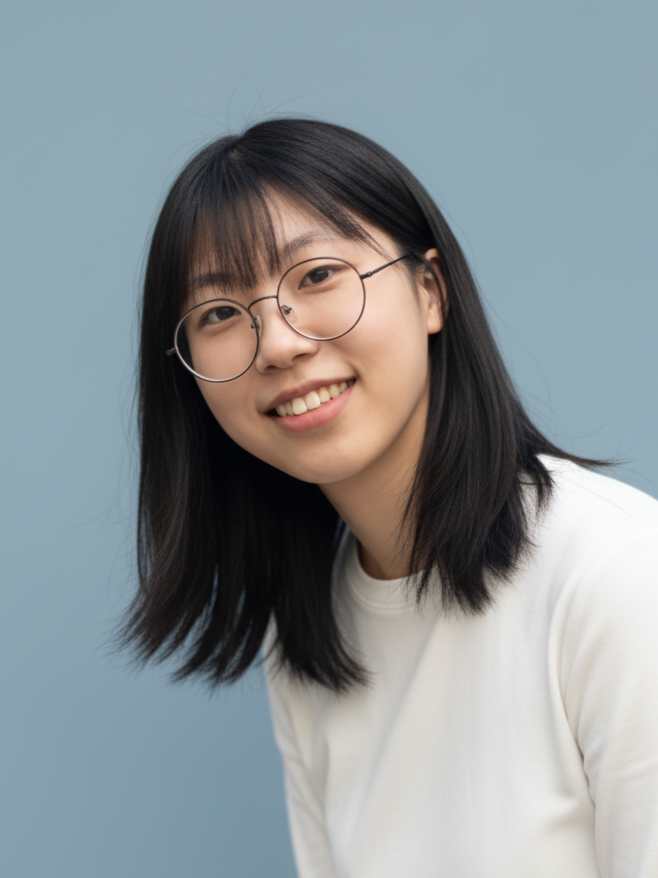
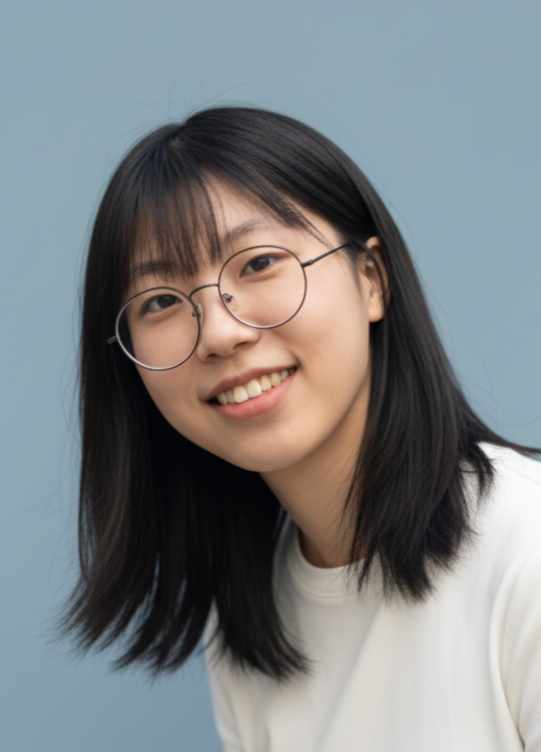
before lab meeting

diff --git a/dark_new.html b/dark_new.html
@@ -703,7 +703,7 @@
         <!-- PI -->
         <div class="card person" style="width: 600px; margin: 0 auto;" data-animate="up">
           <div style="display:flex; gap:14px; justify-content: center;">
-            <img src="img/재현.png" alt="PI 프로필" width="140" height="180" style="align-self: center; margin-right:10px;"/>
+            <img src="img/재현pf.png" alt="PI 프로필" width="140" height="180" style="align-self: center; margin-right:10px;"/>
             <div>
               <h4 style="margin-top: 10px;">Jaehyun Yoo</h4>
               <p style="font-size:17px; color:#64b1da; margin-top:0; margin-bottom: 0; font-weight:600">Associate Professor</p>
@@ -731,7 +731,7 @@
           <!-- UG 멤버 카드들 (생략 없이 유지) -->
           <div class="card person" data-animate="up">
             <div style="display:flex; gap:14px; margin-left: 7px;">
-              <img src="img/하정pf.png" alt="UG profile" width="100" height="125" />
+              <img src="img/하정pf2.png" alt="UG profile" width="100" height="125" />
               <div>
                 <h4>Hajeong Kim</h4>
                 <p style="font-size:17px; color:#64b1da; margin-top:0; margin-bottom: 0; font-weight:600">Undergraduate Student</p>
@@ -755,7 +755,7 @@
 
           <div class="card person" data-animate="up">
             <div style="display:flex; gap:14px; margin-left: 7px;">
-              <img src="img/지민2.jpg" alt="UG profile" width="100" height="125" />
+              <img src="img/지민pf.png" alt="UG profile" width="100" height="125" />
               <div>
                 <h4>Jimin Kim</h4>
                 <p style="font-size:17px; color:#64b1da; margin-top:0; margin-bottom: 0; font-weight:600">Undergraduate Student</p>
@@ -767,7 +767,7 @@
 
           <div class="card person" data-animate="up">
             <div style="display:flex; gap:14px; margin-left: 7px;">
-              <img src="img/정윤2.jpg" alt="UG profile" width="95" height="125" />
+              <img src="img/정윤pf.png" alt="UG profile" width="95" height="125" />
               <div>
                 <h4>Jung-yoon Moon</h4>
                 <p style="font-size:17px; color:#64b1da; margin-top:0; margin-bottom: 0; font-weight:600">Undergraduate Student</p>
@@ -779,7 +779,7 @@
 
           <div class="card person" data-animate="up">
             <div style="display:flex; gap:14px; margin-left: 7px;">
-              <img src="img/해름.jpg" alt="UG profile" width="100" height="130" />
+              <img src="img/해름pf.png" alt="UG profile" width="100" height="130" />
               <div>
                 <h4>Haereum Park</h4>
                 <p style="font-size:17px; color:#64b1da; margin-top:0; margin-bottom: 0; font-weight:600">Undergraduate Student</p>
@@ -791,7 +791,7 @@
 
           <div class="card person" data-animate="up">
             <div style="display:flex; gap:14px; margin-left: 7px;">
-              <img src="img/주연.jpg" alt="UG profile" width="100" height="125" />
+              <img src="img/주연pf.png" alt="UG profile" width="100" height="125" />
               <div>
                 <h4>Juyeon Park</h4>
                 <p style="font-size:17px; color:#64b1da; margin-top:0; margin-bottom: 0; font-weight:600">Undergraduate Student</p>
@@ -839,7 +839,7 @@
 
           <div class="card person" data-animate="up">
             <div style="display:flex; gap:14px; margin-left: 7px;">
-              <img src="img/지연.jpg" alt="UG profile" width="100" height="125" />
+              <img src="img/지연pf.png" alt="UG profile" width="100" height="125" />
               <div>
                 <h4>Jiyeon Hong</h4>
                 <p style="font-size:17px; color:#64b1da; margin-top:0; margin-bottom: 0; font-weight:600">Undergraduate Student</p>
@@ -1068,7 +1068,7 @@
     })();
 
     /* News collapse toggle — 안정화 */
-    (function(){
+    (()=>{
       const wrap = document.querySelector('.news-wrap');
       if(!wrap) return;
       const btn = wrap.querySelector('.news-more');
@@ -1209,3 +1209,4 @@
   </script>
 </body>
 </html>
+ 
